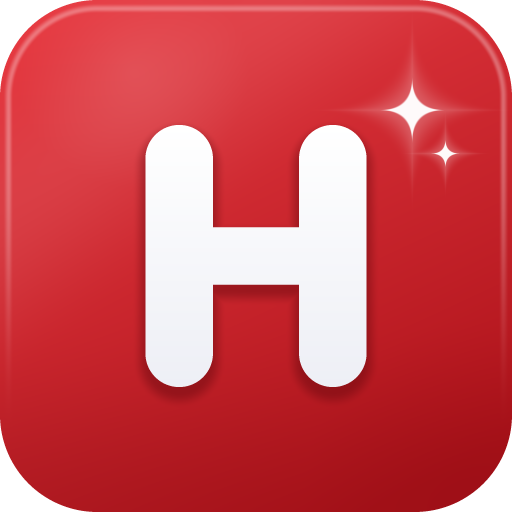
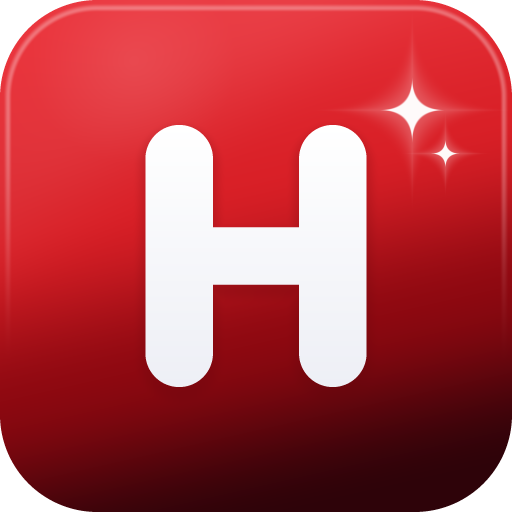
feat(bildirim): OneSignal Web SDK entegrasyonu (head init + consent kapisi) ve logoya alt karartma

diff --git a/site/src/lib/site-meta.js b/site/src/lib/site-meta.js
@@ -67,3 +67,20 @@ export const GOOGLE_SITE_VERIFICATION = GOOGLE_SITE_VERIFICATIONS[0];
 
 /** Google Analytics (GA4) ölçüm kimliği. */
 export const GA_MEASUREMENT_ID = process.env.GA_MEASUREMENT_ID || "G-C9BGECSKCM";
+
+/**
+ * OneSignal App ID (web push / bildirimler).
+ *
+ * App ID gizli bir anahtar DEĞİLDİR; sitenin OneSignal kimliğidir ve tarayıcıya
+ * açıkça yazılır (REST API anahtarı ise gizlidir, yalnızca workflow'da durur).
+ *
+ * Alt yapı:
+ *   - SDK: site/src/layouts/Base.astro (<head>, appId ile init)
+ *   - Service worker: site/public/OneSignalSDKWorker.js (kök kapsam)
+ *   - Zil + "kategoriyi takip et": site/src/components/Bildirim.astro
+ *   - Gönderim: src/bildirim.js (workflow içinde çalışır)
+ *
+ * Değiştirmek için: gh variable set ONESIGNAL_APP_ID --body "yeni-app-id"
+ */
+export const ONESIGNAL_APP_ID =
+  process.env.ONESIGNAL_APP_ID || "fd1804a3-90d0-4c95-9bf0-c147f9a1d0c7";

diff --git a/README.md b/README.md
@@ -302,21 +302,27 @@ takip ettiği konular için bildirim alır; site kapalıyken de bildirim gelir
 **Haber sayfasında "Bu kategoriyi takip et"** düğmesi kategori rozetinin yanındadır:
 tıklanınca o kategori takip edilir ve ilk kez bildirim izni istenir.
 
-**Kurulum (tek sefer):**
+**OneSignal kurulumu (site tarafı tamam):**
 
-1. `onesignal.com` → ücretsiz hesap → **New App/Website** → platform **Web**.
-2. Site URL: `https://haberinai.site` (OneSignal alan adını birebir doğrular).
-3. **Keys & IDs** sayfasından *App ID* ve *REST API Key* alınır.
-4. Depoya eklenir (kod değişikliği gerekmez, sonraki turda canlıya çıkar):
-   ```powershell
-   gh variable set ONESIGNAL_APP_ID --body "<App ID>"
-   gh secret  set ONESIGNAL_REST_API_KEY --body "<REST API anahtarı>"
-   ```
-   İkisi biri eksikse zil düğmesi ve takip düğmeleri **hiç basılmaz** (yarım arayüz olmaz).
-5. Safari (macOS) için ayrıca OneSignal panelinde **Safari web push sertifikası**
-   yüklenmelidir; Chrome/Edge/Firefox/Android için gerekmez.
-6. iPhone'da bildirim için site **Ana Ekrana eklenmeli** (iOS 16.4+); panel bunu okuyucuya
-   yazar.
+| Parça | Nerede | Durum |
+| --- | --- | --- |
+| App ID | `site/src/lib/site-meta.js` (varsayılan) ya da `gh variable set ONESIGNAL_APP_ID` | ✅ tanımlı |
+| REST API Key | `gh secret set ONESIGNAL_REST_API_KEY` (gizli) | ⏳ bekleniyor — gelmeden hiçbir push **gönderilmez** |
+| SDK + init | `site/src/layouts/Base.astro` (`<head>`) | ✅ |
+| Service worker | `site/public/OneSignalSDKWorker.js` → `/OneSignalSDKWorker.js` | ✅ |
+| Zil + panel + takip | `site/src/components/Bildirim.astro` | ✅ |
+
+- Kurulum dokümanı: <https://documentation.onesignal.com/docs/en/web-sdk-setup>
+  (SDK `<head>`'de yüklenir, `appId` ile init edilir; service worker sitede kök).
+- OneSignal panelinde **Site URL** tam olarak `https://haberinai.site` olmalıdır.
+- **REST API Key** girilene kadar zil/takip çalışır (okuyucu abone olur) ama otomatik
+  haber bildirimi gitmez; anahtar girildiği an gönderim başlar.
+- **Gizlilik:** `setConsentRequired(true)` ile okuyucu bildirimlere izin verene kadar
+  OneSignal veri toplamaz; izin verildiğinde `setConsentGiven(true)` çağrılır.
+- Tarayıcı izin penceresi kendiliğinden açılmaz (slidedown kapalı) — yalnızca zil ya da
+  "kategoriyi takip et" düğmesine basılınca istenir.
+- Safari (macOS 13+) ve iOS 16.4+ VAPID ile çalışır, ek sertifika gerekmez; iPhone'da
+  bildirim için site **Ana Ekrana eklenmelidir** (panel bunu okuyucuya yazar).
 
 **Dosyalar:** `site/src/components/Bildirim.astro` (zil + panel + abonelik),
 `site/public/OneSignalSDKWorker.js` (service worker), `site/public/ikon-192.png`
